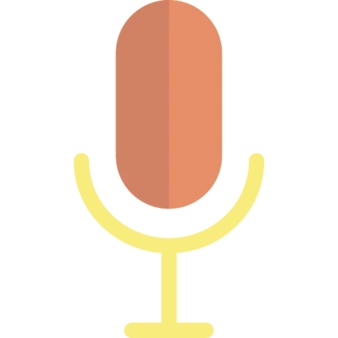
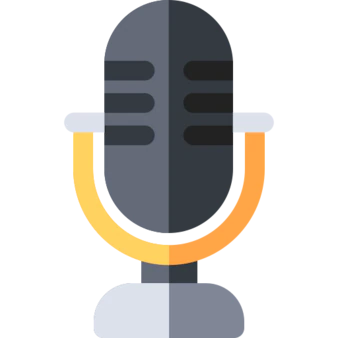
Fourth Commit

diff --git a/index.html b/index.html
@@ -46,24 +46,26 @@
         </menu> 
 
 
-          <!-- <section class="Features section">
-            <h2>Navigate through the Igbo space...</h2>
+
+
+          <section class="Features section">
+            <h2 class="heading">Navigate through the Igbo space...</h2>
             <div class="feature_item translator icon">
                 <a class="externalLink" href="index (2).html">
-                    <img src="IMG/microphone.webp" alt="Microphone icon">
+                    <img src="IMG/microphone.png" alt="Microphone icon">
                      <a class="externalLink" href="index(2).html">Translator & Dictiionary</a>
                 </a>
             </div>
             <div class="feature_item learning icon">
-                <img src="IMG/book.webp" alt="Book Icon">
+                <img src="IMG/book.png" alt="Book Icon">
                  <a class="externalLink" href="index (3).html">Language Learning</a> 
              </div> 
              <div class="feature_item culture  icon">
-                <img src="IMG/culture_mask.webp" alt="Mask Icon">
+                <img src="IMG/culture.png" alt="Mask Icon">
                  <a class="externalLink" href="index (4).html">Culture</a> 
             </div> 
             <div class="feature_item games icon">
-                <img src="IMG/games.htm" alt="Game Icon">
+                <img src="IMG/Game Icon.webp" alt="Game Icon">
                 <a class="externalLink" href="index (5).html">Games</a> 
             </div> 
             <div class="feature_item  news icon">
@@ -71,7 +73,7 @@
                  <a class="externalLink" href="index (6).html">Latest News</a> 
             </div> 
              </div> 
-         </section>  -->
+         </section>  
     <script src="JS/script.js"></script>
 </body>
 </html>

diff --git a/CSS/style.css b/CSS/style.css
@@ -145,7 +145,7 @@ h1.heading{
     min-width: max-content;
     text-align: center;
     margin: 1em 0em;
-    font-size: 2.5em;
+    font-size: 2.4em;
     font-weight: 900;
     color: var(--bronze);
 }
@@ -209,7 +209,7 @@ menu{
     width: 90%;
     height: 25em;
     padding: 5em 2em;
-    margin: 7em 2em;
+    margin: 7em 2em 9em;
     display: flex;
     align-items: center;
     justify-content: space-around;
@@ -226,7 +226,7 @@ menu img{
     aspect-ratio: 1/1;
     border-radius: 30%;
 }
-   
+ 
 
 
 .heroText{
@@ -275,12 +275,23 @@ menu img{
     width: 9em;
     height: 9em;
     border-radius: 100%;
-    background-image: conic-gradient( var(--walnut), var(--irish_coffee), var(bronze)  );
 }
 
-.icon{
-    background: linear-gradient(to bottom, var(--bronze) , var(--irish_coffee));
+h2.heading{
+    text-align: center;
+    font-size: 1.6em;
+    font-weight: 600;
+    color: var(--bronze);
+    margin-bottom: 2em;
 }
+
+.icon img{
+    width: 7em;
+    aspect-ratio: 2/1;
+    background: linear-gradient(to bottom, var(--walnut) var(--bronze));
+}
+
+
 /* Position Values for the Home tab features */
 .translator{
     right: 6.5em;

diff --git a/CSS/mediaquery.css b/CSS/mediaquery.css
@@ -12,6 +12,8 @@
         width: 10em;
     }
 }
+
+
 @media screen and (min-width: 812px) {
      /* Setting the navbar to desktop view */
      .hamburger,
@@ -28,9 +30,11 @@
          box-shadow: none;
          background-color: none;
          width: auto;
+         font-size:auto;
      }
  
 }
+
 
 @media  screen and (min-width: 480px) and (max-width: 769px) {
     h1.special-heading{
